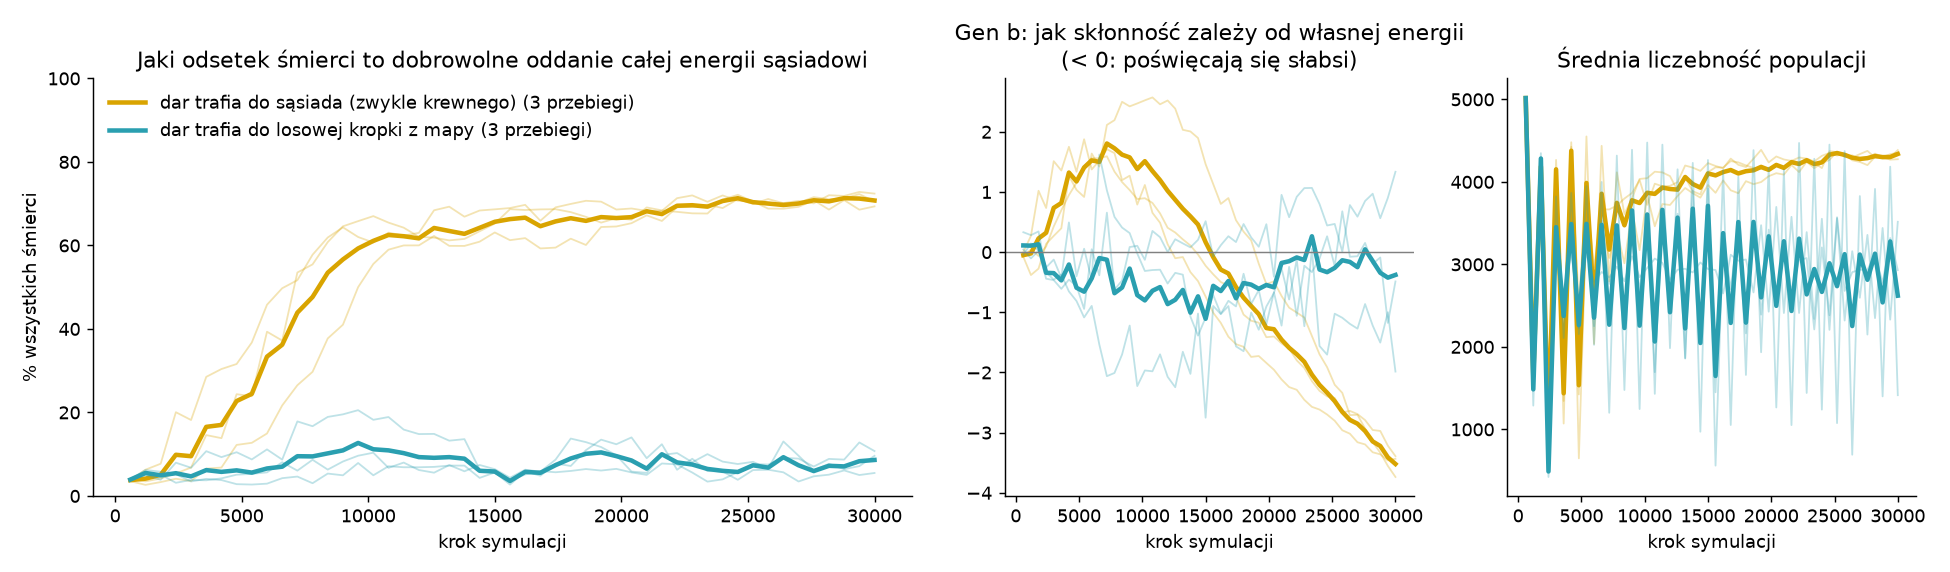
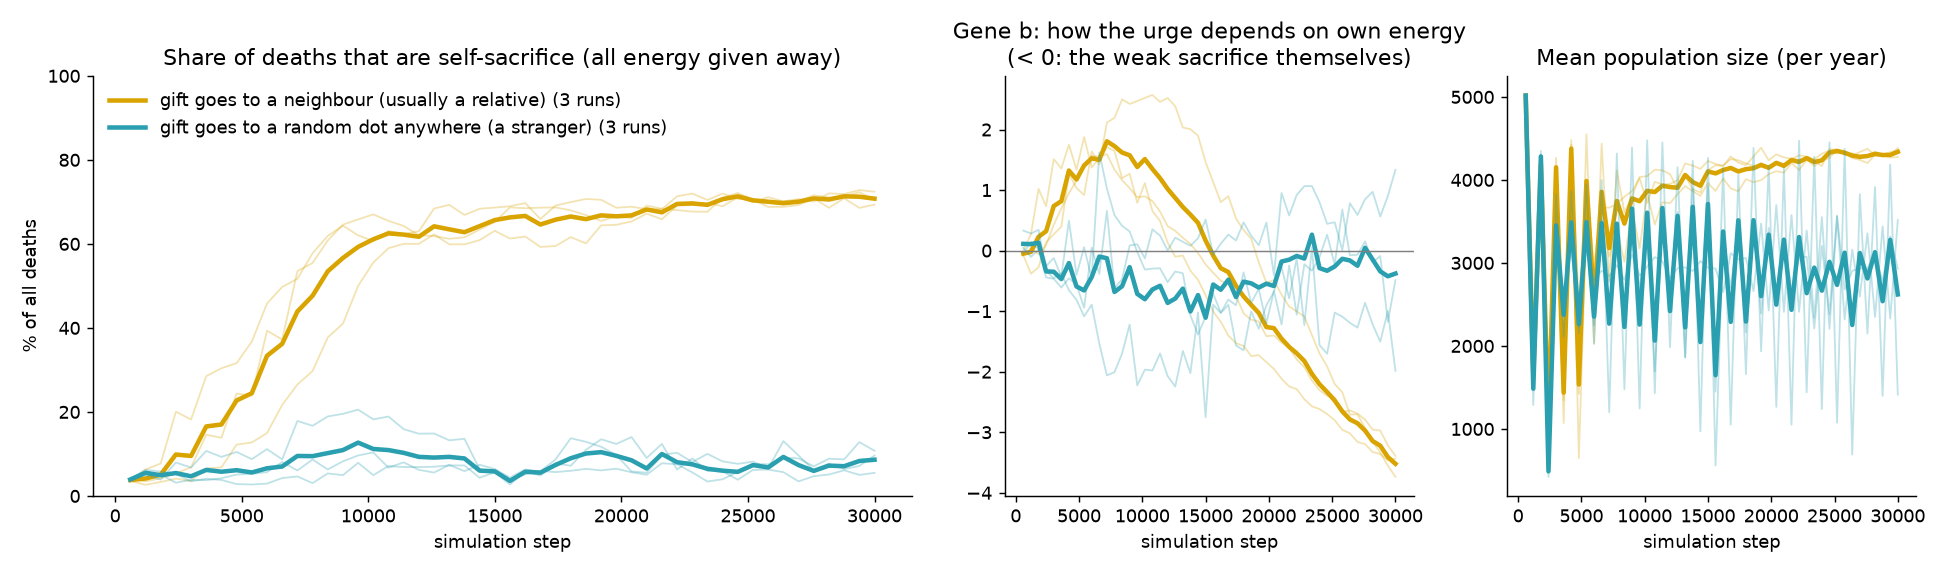
English labels in figures and viewer; family-colour GIFs; fix 'two genes' claim
Figures, demo.sh and the compare viewer now use English text. New
analysis/tag_movie.py renders yearly and fast GIFs of family-colour maps and
measures how far dots live from last year's ancestor (12.6 vs 21.9). DEMO.md
now says food-seeking strength also evolves (similarly in both worlds).

diff --git a/analysis/tag_movie.py b/analysis/tag_movie.py
@@ -1,0 +1,133 @@
+"""GIFs of the two demo worlds as maps of family colour (tag), plus family-turnover numbers.
+
+    .venv/bin/python analysis/tag_movie.py docs/demo_tags.gif docs/demo_tags_yearly.gif
+
+Each map pixel block shows the mean inherited colour (tag) of the dots in that patch of
+the world; brightness = how many dots are there (dark = empty). Families show up as
+patches of one colour.
+
+- the first GIF has a frame every FRAME_EVERY steps (the seasons are visible),
+- the second has one frame per year, always at the same moment of the year
+  (when the population peaks), so slow vs fast change of the family map stands out.
+
+Also prints, per year: how far (median) a dot lives from where its ancestor lived one
+year earlier, and what share of last year's dots left any living descendants.
+"""
+from __future__ import annotations
+
+import sys
+from multiprocessing import Pool
+from pathlib import Path
+
+import numpy as np
+from PIL import Image, ImageDraw, ImageFont
+
+from kin_dots.core import Params, World
+from kin_dots.core import genome as G
+from kin_dots.core.kinship import _ancestor_index
+
+PRESETS = [("gift to a neighbour", "configs/demo_sacrifice.yaml"),
+           ("gift to a stranger", "configs/demo_sacrifice_strangers.yaml")]
+SEED = 0
+STEPS = 30000
+FRAME_EVERY = 150
+BINS = 75            # map resolution (world 300 -> 4 units per block)
+FULL_DENSITY = 2     # dots per block that give full brightness
+PEAK_PHASE = 300     # step within the 600-step year when the population peaks
+PANEL = 330          # pixels per world in the GIF
+
+
+def heatmap(w: World) -> np.ndarray:
+    idx = np.flatnonzero(w.alive)
+    img = np.zeros((BINS, BINS, 3))
+    if idx.size == 0:
+        return img.astype(np.uint8)
+    bx = np.minimum((w.x[idx] / w.p.world_size * BINS).astype(int), BINS - 1)
+    by = np.minimum((w.y[idx] / w.p.world_size * BINS).astype(int), BINS - 1)
+    cnt = np.zeros((BINS, BINS))
+    np.add.at(cnt, (by, bx), 1)
+    tags = w.genome[idx][:, G.TAG]
+    for c in range(3):
+        np.add.at(img[..., c], (by, bx), tags[:, c])
+    with np.errstate(invalid="ignore", divide="ignore"):
+        mean = np.where(cnt[..., None] > 0, img / cnt[..., None], 0)
+    bright = np.minimum(cnt / FULL_DENSITY, 1.0)[..., None]
+    rgb = 18 + (40 + 215 * mean - 18) * bright  # blend with the dark background
+    return np.clip(rgb, 0, 255).astype(np.uint8)
+
+
+def run(job):
+    label, path = job
+    w = World(Params.from_yaml(path).replace(seed=SEED))
+    period = w.p.season_period
+    frames, yearly, stats = [], [], []
+    prev = None  # (ids, x, y) at last year's peak
+    while w.step_count < STEPS and w.population > 0:
+        w.step()
+        if w.step_count % FRAME_EVERY == 0:
+            frames.append((w.step_count, w.population, heatmap(w)))
+        if w.step_count % period == PEAK_PHASE:
+            a = np.flatnonzero(w.alive)
+            ids, x, y = w.id[a], w.x[a], w.y[a]
+            yearly.append((w.step_count, w.population, heatmap(w)))
+            if prev is not None:
+                pids, px, py = prev
+                snap = np.full(w.next_id, -1, dtype=np.int64)
+                snap[pids] = np.arange(pids.size)
+                anc = _ancestor_index(ids, w.genealogy.parent, snap)
+                ok = anc >= 0
+                dx = np.abs(x[ok] - px[anc[ok]])
+                dy = np.abs(y[ok] - py[anc[ok]])
+                size = w.p.world_size
+                dist = np.hypot(np.minimum(dx, size - dx), np.minimum(dy, size - dy))
+                left_descendants = np.unique(anc[ok]).size / pids.size
+                stats.append((w.step_count, float(np.median(dist)), left_descendants))
+            prev = (ids, x, y)
+    return label, frames, yearly, stats
+
+
+def compose(results, which: int, title_fn, out: str, ms: int):
+    try:
+        font = ImageFont.truetype("/System/Library/Fonts/Supplemental/Arial.ttf", 17)
+        small = ImageFont.truetype("/System/Library/Fonts/Supplemental/Arial.ttf", 14)
+    except OSError:
+        font = small = ImageFont.load_default()
+    n = min(len(r[which]) for r in results)
+    gap, top = 14, 58
+    W_ = 2 * PANEL + 3 * gap
+    H_ = top + PANEL + gap
+    images = []
+    for f in range(n):
+        im = Image.new("RGB", (W_, H_), (18, 18, 22))
+        d = ImageDraw.Draw(im)
+        for k, r in enumerate(results):
+            step, pop, hm = r[which][f]
+            x0 = gap + k * (PANEL + gap)
+            color = (250, 210, 40) if k == 0 else (90, 220, 230)
+            d.text((x0, 10), r[0], font=font, fill=color)
+            d.text((x0, 33), title_fn(step) + f"   population {pop}", font=small, fill=(200, 200, 205))
+            tile = Image.fromarray(hm, "RGB").resize((PANEL, PANEL), Image.NEAREST)
+            im.paste(tile, (x0, top))
+        images.append(im)
+    images[0].save(out, save_all=True, append_images=images[1:], duration=ms, loop=0, optimize=True)
+    print(f"saved {out}: {n} frames, {Path(out).stat().st_size / 1e6:.1f} MB")
+
+
+def main(out_fast: str, out_yearly: str) -> None:
+    with Pool(2) as pool:
+        results = pool.map(run, PRESETS)
+    compose(results, 1, lambda s: f"step {s}", out_fast, 60)
+    compose(results, 2, lambda s: f"year {s // 600}", out_yearly, 220)
+    for label, _, _, stats in results:
+        st = np.array(stats)
+        late = st[st[:, 0] > 15000]
+        print(f"{label}: median distance to last-year ancestor {late[:, 1].mean():.1f}, "
+              f"share of last year's dots with living descendants {late[:, 2].mean():.2f} "
+              f"(years after step 15000)")
+        np.savetxt(Path(out_yearly).with_suffix(f".{'left' if label == PRESETS[0][0] else 'right'}.csv"),
+                   st, delimiter=",", header="step,median_dist_to_ancestor,share_with_descendants",
+                   fmt="%.4f")
+
+
+if __name__ == "__main__":
+    main(*sys.argv[1:3])

diff --git a/analysis/plot_population.py b/analysis/plot_population.py
@@ -18,8 +18,8 @@ import numpy as np  # noqa: E402
 from kin_dots.core import Params  # noqa: E402
 
 COND = {
-    "neighbour": ("dar trafia do sąsiada (zwykle krewnego)", "#d9a400"),
-    "stranger": ("dar trafia do losowej kropki z mapy", "#2a9fb0"),
+    "neighbour": ("gift goes to a neighbour (usually a relative)", "#d9a400"),
+    "stranger": ("gift goes to a random dot anywhere (a stranger)", "#2a9fb0"),
 }
 ZOOM = (24000, 30000)
 
@@ -42,15 +42,15 @@ def main(src: str, out: str) -> None:
     for cond, (label, color) in COND.items():
         k = f"{cond}_s{seeds[0]}"
         top.plot(d[f"{k}_step"], d[f"{k}_pop"], color=color, lw=0.8, label=label)
-    top.set_title(f"Liczebność populacji krok po kroku, cały przebieg (ziarno {seeds[0]}). "
-                  f"Każda fala to jedna pora roku ({period} kroków).")
-    top.set_ylabel("liczba kropek")
-    top.set_xlabel("krok symulacji")
+    top.set_title(f"Population size at every step, whole run (seed {seeds[0]}). "
+                  f"Each wave is one year ({period} steps).")
+    top.set_ylabel("number of dots")
+    top.set_xlabel("simulation step")
     top.set_ylim(bottom=0)
     top.set_xlim(left=0)
     top.legend(loc="upper left", frameon=False)
     top.axvspan(*ZOOM, color="#888888", alpha=0.12, lw=0)
-    top.text(ZOOM[0] + 100, top.get_ylim()[1] * 0.92, "zbliżenie poniżej", color="#555555")
+    top.text(ZOOM[0] + 100, top.get_ylim()[1] * 0.92, "zoomed in below", color="#555555")
 
     ymax = 0
     axes = []
@@ -62,14 +62,14 @@ def main(src: str, out: str) -> None:
             k = f"{cond}_s{s}"
             st, pop = d[f"{k}_step"], d[f"{k}_pop"]
             m = (st >= ZOOM[0]) & (st <= ZOOM[1])
-            ax.plot(st[m], pop[m], color=color, lw=1.4, alpha=[1.0, 0.6, 0.35][i % 3], label=f"ziarno {s}")
+            ax.plot(st[m], pop[m], color=color, lw=1.4, alpha=[1.0, 0.6, 0.35][i % 3], label=f"seed {s}")
             ymax = max(ymax, pop[m].max() if m.any() else 0)
-        ax.set_title(f"{label}\nkroki {ZOOM[0]}–{ZOOM[1]} (szare pasy = zima)")
-        ax.set_xlabel("krok symulacji")
+        ax.set_title(f"{label}\nsteps {ZOOM[0]}–{ZOOM[1]} (grey bands = winter)")
+        ax.set_xlabel("simulation step")
         ax.legend(loc="upper right", frameon=False, fontsize=9)
     for ax in axes:
         ax.set_ylim(0, ymax * 1.08)
-    axes[0].set_ylabel("liczba kropek")
+    axes[0].set_ylabel("number of dots")
     for ax in [top] + axes:
         ax.spines[["top", "right"]].set_visible(False)
     Path(out).parent.mkdir(parents=True, exist_ok=True)

diff --git a/kin_dots/viz/compare.py b/kin_dots/viz/compare.py
@@ -40,6 +40,10 @@ MUTED = (140, 140, 150)
 LEFT_C = (250, 210, 40)
 RIGHT_C = (90, 220, 230)
 RECORD_EVERY = 10   # steps between plotted samples (the whole run is always shown)
+METRIC_TITLES = {  # readable names for the plot and the header
+    "sacrifice_frac": "deaths that are self-sacrifice",
+    "share_rate": "encounters with an energy gift",
+}
 COLOR_MODES = ("p(give)", "energy", "tag")  # tag = inherited colour: shows family lineages
 
 
@@ -243,7 +247,9 @@ def main(argv=None) -> int:
             cur = s.hist[-1] if s.hist else float("nan")
             screen.blit(font.render(f"step {w.step_count}   population {w.population}", True, FG),
                         (x0, GAP + 26))
-            screen.blit(font.render(f"{args.metric} {cur:.3f}", True, col), (x0, GAP + 46))
+            pretty = METRIC_TITLES.get(args.metric, args.metric)
+            val = f"{cur:.0%}" if args.metric in METRIC_TITLES and cur == cur else f"{cur:.3f}"
+            screen.blit(font.render(f"{pretty}: {val}", True, col), (x0, GAP + 46))
             draw_world(screen, s, x0, GAP + TEXT_H, COLOR_MODES[mode], show_food, show_gifts)
 
         # plots: chosen metric (season mean) and raw population, both for the whole run
@@ -256,7 +262,7 @@ def main(argv=None) -> int:
         draw_series(screen, font, GAP, py0, half, PLOT_H,
                     [([float("nan")] * (len(s.pop_hist) - len(s.hist)) + s.hist, c)
                      for s, c in zip(sides, cols)],
-                    f"{args.metric} (season mean)", x_len=n_pop)
+                    f"{METRIC_TITLES.get(args.metric, args.metric)} (mean over a year)", x_len=n_pop)
         draw_series(screen, font, 2 * GAP + half, py0, half, PLOT_H,
                     [(s.pop_hist, c) for s, c in zip(sides, cols)],
                     f"population, step 0..{steps}")

diff --git a/analysis/plot_sacrifice.py b/analysis/plot_sacrifice.py
@@ -18,8 +18,8 @@ import matplotlib.pyplot as plt  # noqa: E402
 import numpy as np  # noqa: E402
 
 CONDS = {
-    "sacrifice-local": ("dar trafia do sąsiada (zwykle krewnego)", "#d9a400"),
-    "sacrifice-strangers": ("dar trafia do losowej kropki z mapy", "#2a9fb0"),
+    "sacrifice-local": ("gift goes to a neighbour (usually a relative)", "#d9a400"),
+    "sacrifice-strangers": ("gift goes to a random dot anywhere (a stranger)", "#2a9fb0"),
 }
 
 
@@ -50,16 +50,16 @@ def main(src: str, out: str) -> None:
             for d in data:
                 ax.plot(runs[0][0][:n], d, color=color, alpha=0.3, lw=1)
             ax.plot(runs[0][0][:n], np.nanmean(data, axis=0), color=color, lw=2.5,
-                    label=f"{label} ({len(runs)} przebiegi)")
-    axes[0].set_title("Jaki odsetek śmierci to dobrowolne oddanie całej energii sąsiadowi")
-    axes[0].set_ylabel("% wszystkich śmierci")
+                    label=f"{label} ({len(runs)} runs)")
+    axes[0].set_title("Share of deaths that are self-sacrifice (all energy given away)")
+    axes[0].set_ylabel("% of all deaths")
     axes[0].set_ylim(0, 100)
     axes[0].legend(loc="upper left", frameon=False)
-    axes[1].set_title("Gen b: jak skłonność zależy od własnej energii\n(< 0: poświęcają się słabsi)")
+    axes[1].set_title("Gene b: how the urge depends on own energy\n(< 0: the weak sacrifice themselves)")
     axes[1].axhline(0, color="gray", lw=0.8)
-    axes[2].set_title("Średnia liczebność populacji")
+    axes[2].set_title("Mean population size (per year)")
     for ax in axes:
-        ax.set_xlabel("krok symulacji")
+        ax.set_xlabel("simulation step")
         ax.spines[["top", "right"]].set_visible(False)
     fig.tight_layout()
     Path(out).parent.mkdir(parents=True, exist_ok=True)

diff --git a/DEMO.md b/DEMO.md
@@ -9,7 +9,8 @@
 3. Kropka z zerową energią umiera z głodu. Po 300 krokach umiera ze starości.
 4. Gdy kropka uzbiera 20 energii, dzieli się na dwie. Dziecko pojawia się tuż obok i dziedziczy geny z drobną mutacją.
 5. **Jedna dodatkowa możliwość:** w każdym kroku kropka może **oddać całą swoją energię losowemu sąsiadowi i umrzeć**.
-6. O tym, jak często to robi, decyduje genom złożony z **dwóch liczb**: `p = sigmoid(a + b · moja energia)`. Na starcie `a = −9`, więc tak umiera tylko ~5% kropek.
+6. O tym, jak często to robi, decydują **dwa geny**: `p = sigmoid(a + b · moja energia)`. Na starcie `a = −9`, więc tak umiera tylko ~5% kropek.
+7. Ewoluuje jeszcze jeden gen: jak mocno kropka kieruje się w stronę trawy. W obu światach rośnie podobnie (z ~1.2 do ~4–8), więc nie wyjaśnia różnicy między nimi.
 
 **Czego w modelu nie ma:**
 - rozpoznawania krewnych (kropki nie widzą, kto jest kim),
@@ -37,6 +38,15 @@ Prawie każdy odpowie, że gen „zabij się” szybko wyginie.
   ![Liczebność populacji krok po kroku](docs/demo_population.png)
 
   Bez uśredniania widać to jeszcze wyraźniej. W świecie z darem dla sąsiada wszystkie trzy przebiegi mają **prawie identyczny, regularny rytm**: ~8500 kropek latem i ~600 zimą, rok w rok. W świecie kontrolnym lata są na przemian duże i małe, a zimą populacja często spada prawie do zera.
+
+- **Rody: osiadłe vs wędrowne.** Mapa poniżej pokazuje średni dziedziczny kolor kropek w każdym kawałku świata, czyli rody. Jedna klatka to jeden rok, zawsze w szczycie lata.
+
+  ![Mapa rodów rok po roku](docs/demo_tags_yearly.gif)
+
+  - W świecie z darem dla sąsiada wiele rodów współistnieje w mozaice, która zmienia się powoli. Rody przeżywają zimę na miejscu i co roku odradzają się w tym samym rejonie.
+  - W świecie kontrolnym zimowe krachy wybijają większość rodów. Zostaje kilka wielkich, które co roku na nowo zalewają opustoszałe tereny.
+  - Liczbowo: kropka żyje średnio (mediana) **12.6** jednostki od miejsca, w którym rok wcześniej żył jej przodek. W świecie kontrolnym to **21.9**.
+  - Szybsza wersja, z klatką co 150 kroków, w której widać też pory roku: `docs/demo_tags.gif`.
 
 - **Samobójstwo bez daru** (kropka umiera, a jej energia przepada) daje mieszane wyniki: 61%, 44% i 6% śmierci w trzech przebiegach. Liczy się więc *dar dla krewnych*, a nie samo zwolnienie miejsca.
 
@@ -97,6 +107,12 @@ Wykres liczebności (~3 minuty):
 
 ```bash
 .venv/bin/python analysis/plot_population.py results/population.npz docs/demo_population.png
+```
+
+GIF-y z mapą rodów (~3 minuty):
+
+```bash
+.venv/bin/python analysis/tag_movie.py docs/demo_tags.gif docs/demo_tags_yearly.gif
 ```
 
 ## Uczciwe zastrzeżenia

diff --git a/README.md b/README.md
@@ -4,7 +4,7 @@ Ewolucyjna symulacja kropek-agentów, które jedzą, walczą, rozmnażają się 
 
 Szczegóły modelu, metryki, eksperymenty i kamienie milowe: [PLAN.md](PLAN.md).
 
-**Najlepsze demo: [DEMO.md](DEMO.md).** Kropki z genomem złożonym z dwóch liczb ewoluują od ~5% do ~70% śmierci przez poświęcenie za sąsiada, a w kontroli (dar dla obcego) nie. **Status:** M3 gotowy, dodane drapieżniki i krzyk ostrzegawczy. Dzielenie się z krewnymi i powściągliwość wobec krewnych ewoluują, a ich źródłem jest pokrewieństwo (kontrole). Krzyk ostrzegawczy: wynik niejednoznaczny. Szczegóły: sekcja 8 w [PLAN.md](PLAN.md). Nowy wariant: dwa gatunki z frontem, walką tylko z obcymi i obroną krewnych.
+**Najlepsze demo: [DEMO.md](DEMO.md).** Kropki, w których o poświęceniu decydują dwa geny, ewoluują od ~5% do ~70% śmierci przez poświęcenie za sąsiada, a w kontroli (dar dla obcego) nie. **Status:** M3 gotowy, dodane drapieżniki i krzyk ostrzegawczy. Dzielenie się z krewnymi i powściągliwość wobec krewnych ewoluują, a ich źródłem jest pokrewieństwo (kontrole). Krzyk ostrzegawczy: wynik niejednoznaczny. Szczegóły: sekcja 8 w [PLAN.md](PLAN.md). Nowy wariant: dwa gatunki z frontem, walką tylko z obcymi i obroną krewnych.
 
 ## Instalacja
 
